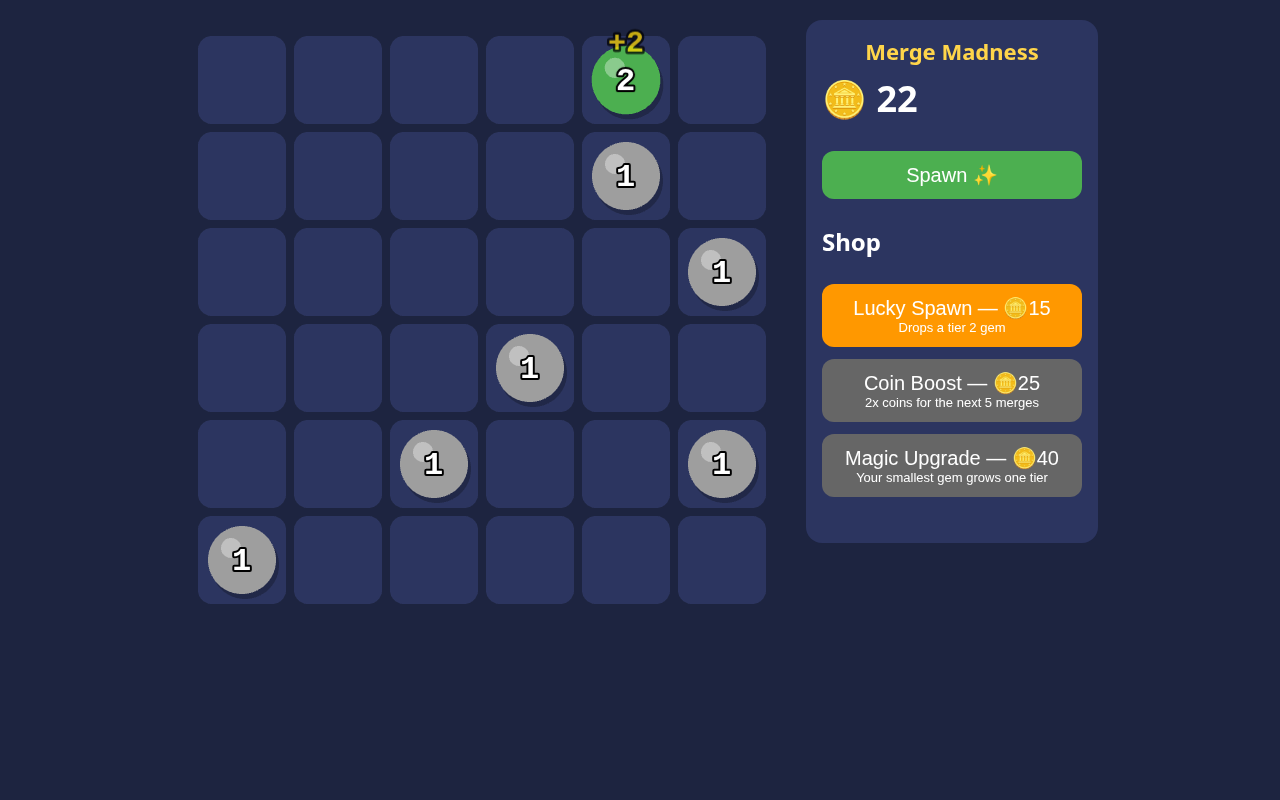
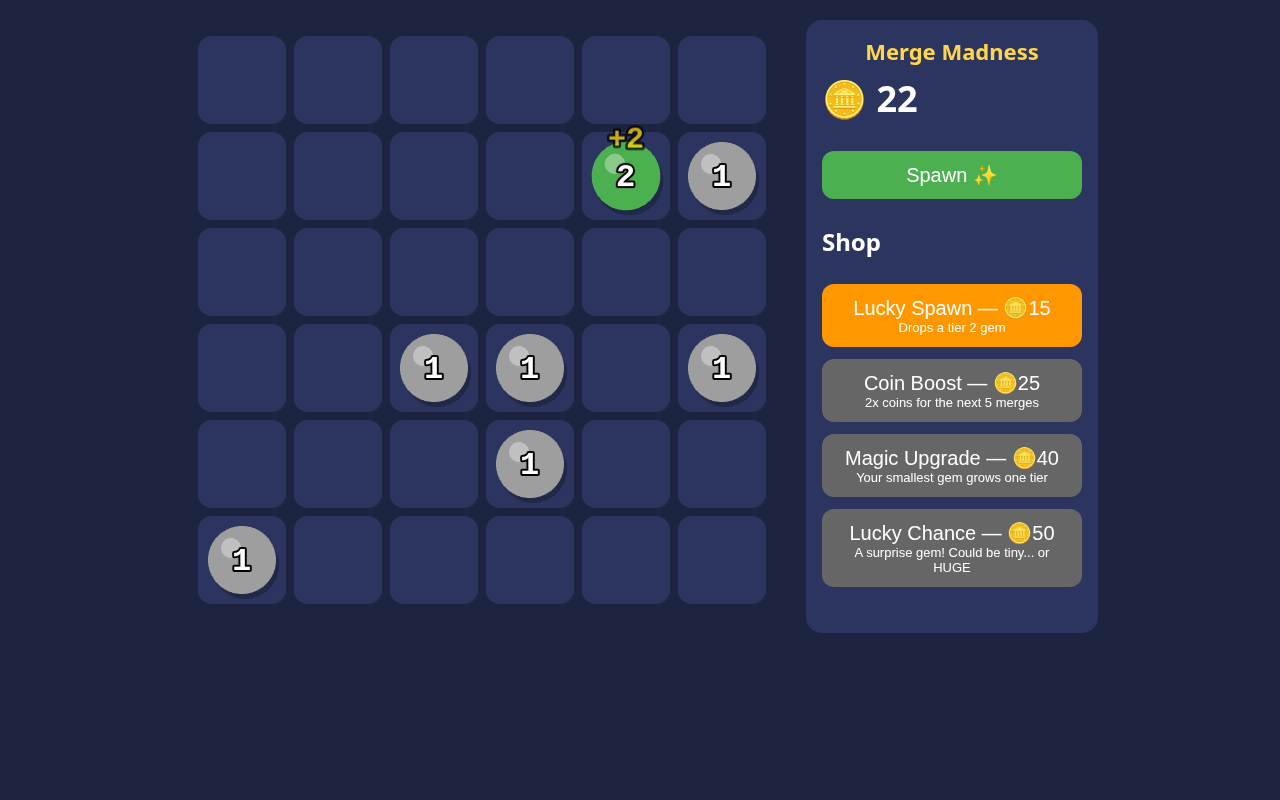
Add Lucky Chance shop item (Miles's weighted tier odds)

diff --git a/tests/core.test.ts b/tests/core.test.ts
@@ -33,3 +33,46 @@ describe('core rules', () => {
     expect(load(st)).toEqual(s);
   });
 });
+
+import { weightedPick } from '../src/core/game';
+import { LUCKY_CHANCE_WEIGHTS } from '../src/config';
+describe('Lucky Chance', () => {
+  const W = { 1: 80, 2: 50, 3: 40, 4: 30, 5: 20, 6: 10, 7: 5, 8: 1 }; // total 236
+  const at = (x: number) => () => x / 236;
+  it('config matches Miles numbers', () => { expect(LUCKY_CHANCE_WEIGHTS).toEqual(W); expect(SHOP.luckyChance.price).toBe(50); });
+  it('weighted pick respects boundaries', () => {
+    expect(weightedPick(W, at(0))).toBe(1);
+    expect(weightedPick(W, at(79.999))).toBe(1);
+    expect(weightedPick(W, at(80))).toBe(2);
+    expect(weightedPick(W, at(129.999))).toBe(2);
+    expect(weightedPick(W, at(130))).toBe(3);
+    expect(weightedPick(W, at(170))).toBe(4);
+    expect(weightedPick(W, at(200))).toBe(5);
+    expect(weightedPick(W, at(220))).toBe(6);
+    expect(weightedPick(W, at(230))).toBe(7);
+    expect(weightedPick(W, at(234.999))).toBe(7);
+    expect(weightedPick(W, at(235))).toBe(8);
+    expect(weightedPick(W, () => 0.999999)).toBe(8);
+  });
+  it('frequencies roughly follow weights', () => {
+    let seed = 1; const rng = () => ((seed = (seed * 16807) % 2147483647) / 2147483647);
+    const n = 236000, counts: Record<number, number> = {};
+    for (let i = 0; i < n; i++) { const t = weightedPick(W, rng); counts[t] = (counts[t] ?? 0) + 1; }
+    for (const [t, w] of Object.entries(W)) expect(Math.abs(counts[+t] / 1000 - w)).toBeLessThan(Math.max(3, w * 0.1));
+  });
+  it('zero weight never picked', () => { expect(weightedPick({ 1: 0, 2: 1 }, () => 0)).toBe(2); });
+  it('buy deducts 50 and places the picked tier', () => {
+    const s = newGame(); s.coins = 60;
+    const r = buy(s, 'luckyChance', at(170));
+    expect(r.ok).toBe(true); expect(r.tier).toBe(4); expect(s.coins).toBe(10);
+    expect(s.cells[r.cell!]).toBe(4); expect(s.cells.filter(c => c !== null).length).toBe(1);
+  });
+  it('refuses when full board, coins unchanged', () => {
+    const s = newGame(); s.coins = 100; s.cells.fill(1);
+    expect(buy(s, 'luckyChance', at(0))).toEqual({ ok: false, reason: 'Board is full' }); expect(s.coins).toBe(100);
+  });
+  it('refuses when coins < 50', () => {
+    const s = newGame(); s.coins = 49;
+    expect(buy(s, 'luckyChance').ok).toBe(false); expect(s.coins).toBe(49); expect(s.cells.every(c => c === null)).toBe(true);
+  });
+});

diff --git a/src/main.ts b/src/main.ts
@@ -12,14 +12,15 @@ function refresh() {
   save(state);
   $('coin-count').textContent = String(state.coins);
   $('boost').textContent = state.boostMerges > 0 ? `⚡ 2x coins: ${state.boostMerges} merges left` : '';
-  document.querySelectorAll<HTMLButtonElement>('.shop-item').forEach(b => { b.disabled = state.coins < SHOP[b.dataset.id as ShopId].price; });
+  document.querySelectorAll<HTMLButtonElement>('.shop-item').forEach(b => { const p = SHOP[b.dataset.id as ShopId].price; b.disabled = state.coins < p; b.title = b.disabled ? `Need ${p} coins. Keep merging! 🪙` : ''; });
 }
+const friendly = (r: string) => r === 'Board is full' ? 'Board is full! Merge some orbs to make room 🙂' : r === 'Not enough coins' ? 'Not enough coins yet. Keep merging! 🪙' : r;
 const msg = (t: string) => { $('msg').textContent = t; };
 
 (Object.keys(SHOP) as ShopId[]).forEach(id => {
   const b = document.createElement('button'); b.className = 'shop-item'; b.dataset.id = id; b.id = `shop-${id}`;
   b.innerHTML = `${SHOP[id].name} — 🪙${SHOP[id].price}<small>${SHOP[id].description}</small>`;
-  b.onclick = () => { const r = buy(state, id); msg(r.ok ? `Bought ${SHOP[id].name}!` : r.reason!); if (r.ok) scene.redraw(r.cell); refresh(); };
+  b.onclick = () => { const r = buy(state, id); msg(r.ok ? (r.tier ? `${SHOP[id].name} gave you a tier ${r.tier} orb! 🍀` : `Bought ${SHOP[id].name}!`) : friendly(r.reason!)); if (r.ok) scene.redraw(r.cell); refresh(); };
   $('shop').appendChild(b);
 });
 $('spawn-btn').onclick = () => { const i = spawn(state); if (i < 0) msg('Board is full!'); else scene.redraw(i); refresh(); };

diff --git a/src/core/game.ts b/src/core/game.ts
@@ -40,13 +40,28 @@ export function moveItem(s: GameState, from: number, to: number): MoveResult {
   return { kind: 'swap' };
 }
 
-export function buy(s: GameState, id: ShopId, rand = Math.random): { ok: boolean; reason?: string; cell?: number } {
+// Pick a key using relative weights. rand() must return [0, 1).
+export function weightedPick(weights: Record<number, number>, rand = Math.random): number {
+  const entries = Object.entries(weights).map(([k, w]) => [Number(k), Math.max(0, w)] as const).sort((a, b) => a[0] - b[0]);
+  const total = entries.reduce((t, [, w]) => t + w, 0);
+  let r = rand() * total;
+  for (const [k, w] of entries) { if (w > 0 && r < w) return k; r -= w; }
+  return entries.filter(([, w]) => w > 0).pop()![0];
+}
+
+export function buy(s: GameState, id: ShopId, rand = Math.random): { ok: boolean; reason?: string; cell?: number; tier?: number } {
   const item = C.SHOP[id];
   if (s.coins < item.price) return { ok: false, reason: 'Not enough coins' };
   let cell: number | undefined;
   if (id === 'luckySpawn') {
     if (!emptyCells(s).length) return { ok: false, reason: 'Board is full' };
     cell = placeAt(s, 2, rand);
+  } else if (id === 'luckyChance') {
+    if (!emptyCells(s).length) return { ok: false, reason: 'Board is full' };
+    const tier = weightedPick(C.LUCKY_CHANCE_WEIGHTS, rand);
+    cell = placeAt(s, tier, rand);
+    s.coins -= item.price;
+    return { ok: true, cell, tier };
   } else if (id === 'coinBoost') {
     s.boostMerges += C.SHOP.coinBoost.merges;
   } else {

diff --git a/src/config.ts b/src/config.ts
@@ -36,4 +36,13 @@ export const SHOP = {
   luckySpawn: { name: 'Lucky Spawn', price: 15, description: 'Drops a tier 2 gem' },
   coinBoost: { name: 'Coin Boost', price: 25, description: '2x coins for the next 5 merges', merges: 5, multiplier: 2 },
   magicUpgrade: { name: 'Magic Upgrade', price: 40, description: 'Your smallest gem grows one tier' },
+  luckyChance: { name: 'Lucky Chance', price: 50, description: 'A surprise gem! Could be tiny... or HUGE' },
+};
+
+// ----- Lucky Chance odds (Miles designed these!) -----
+// Each tier gets a "weight". BIGGER number = MORE likely to come out.
+// They don't have to add up to 100. A tier with 80 is 80 times more likely than a tier with 1.
+// Set a tier to 0 and it will never come out.
+export const LUCKY_CHANCE_WEIGHTS: Record<number, number> = {
+  1: 80, 2: 50, 3: 40, 4: 30, 5: 20, 6: 10, 7: 5, 8: 1,
 };
